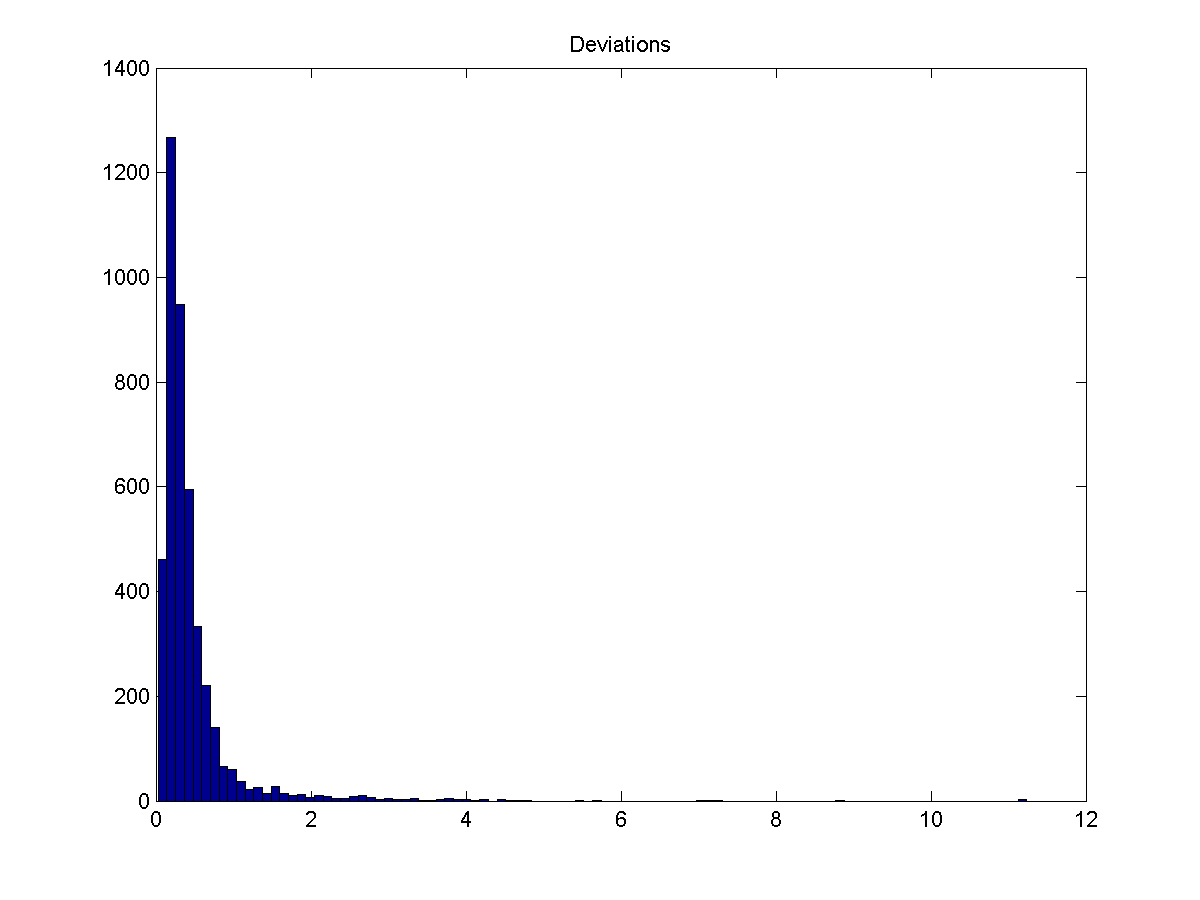
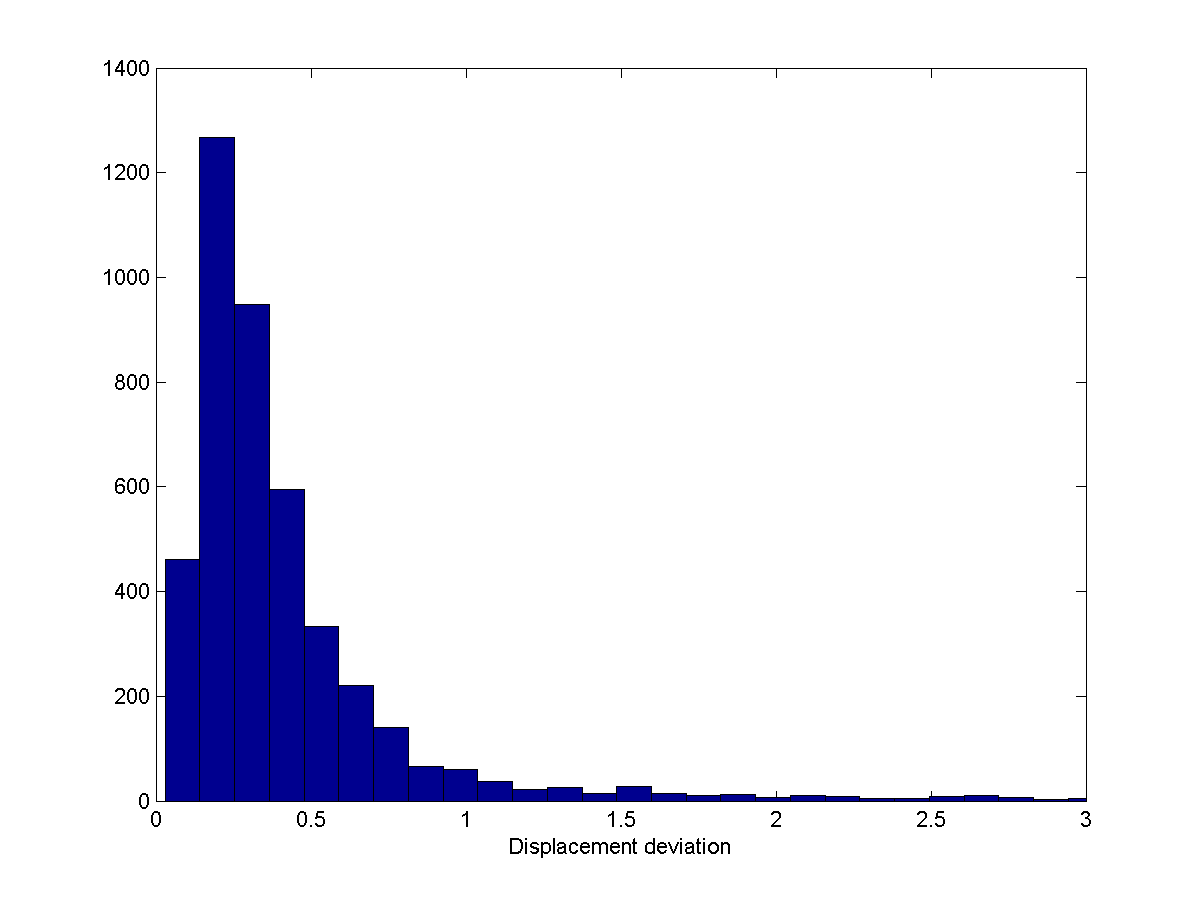
Spelling errors. Title change. Better deviations histogram.

Changed region(s): [[0.1233, 0.1556, 0.8633, 0.9644], [0.4625, 0.0311, 0.555, 0.0622], [0.8942, 0.9022, 0.925, 0.9333]]

diff --git a/branches/essay/swc.tex b/branches/essay/swc.tex
@@ -1,8 +1,8 @@
 \documentclass[12pt]{article}
 \usepackage{candor, setspace, color, wrapfig}
 \usepackage[final, colorlinks=true, linkcolor=BWFBlue,
-  citecolor=BWFGreen, urlcolor=BWFRed, pdftitle={On the Computational
-    Modelling of Ribosomal Translation and Frameshifts},
+  citecolor=BWFGreen, urlcolor=BWFRed, pdftitle={Computational
+    Modelling Ribosomal Translation and Frameshifts},
   pdfauthor={Hao Lian, Vivek Bhattacharya, and Daniel Vitek},
   pdfsubject={Bioinformatics, Genetics, and Biology}, pdfcreator={The
     Frameshift Kids}, pdfkeywords={bioinformatics,genetics,biology,
@@ -13,7 +13,7 @@
 
 \author{{\sc Hao Lian, Vivek Bhattacharya, and Daniel Vitek}}
 \date{{\sc \today}}
-\title{{\bf On the Computational Modelling of Ribosomal Translation
+\title{{\bf Computational Modelling Ribosomal Translation
     and Frameshifts}}
 
 \begin{document}
@@ -28,7 +28,7 @@
   frame based on forces arising from changes in free energy present in hybridization between the 
   16S rRNA tail and nucleotides upstream from the A-site.  We present both our investigation and 
   potential applications for this model, including optimization of economically significant gene
-  sequences such as bovine growth horme, non-experimental prediction of translational efficiency for man-made 
+  sequences such as bovine growth hormone, non-experimental prediction of translational efficiency for man-made 
   proteins, adjustment of calculated tRNA availability values, and modelling of frameshifts in \prfB\ in \ecoli.  This
   investigation is presented as a series of sections comprising of various inquiries that were made 
   in subjects ranging throughout the field of molecular biology.  We also applied our stochastic 
@@ -329,9 +329,10 @@ evaluates the proposed metric.
 
 \begin{wrapfigure}{R}{0.55\textwidth}
   \centering
-  \caption{Displacement deviation for \ecoli\ genes}
+  \caption{Displacement deviation for \ecoli\ genes with <1\% of genes
+    with deviation >3 truncated}
   \label{ecoli:hist}
-  \includegraphics[scale=0.2]{histograms/everything}
+  \includegraphics[width=0.55\textwidth]{histograms/everything}
 \end{wrapfigure}
 
 \ecoli, as a product of evolution, is naturally efficient in its
